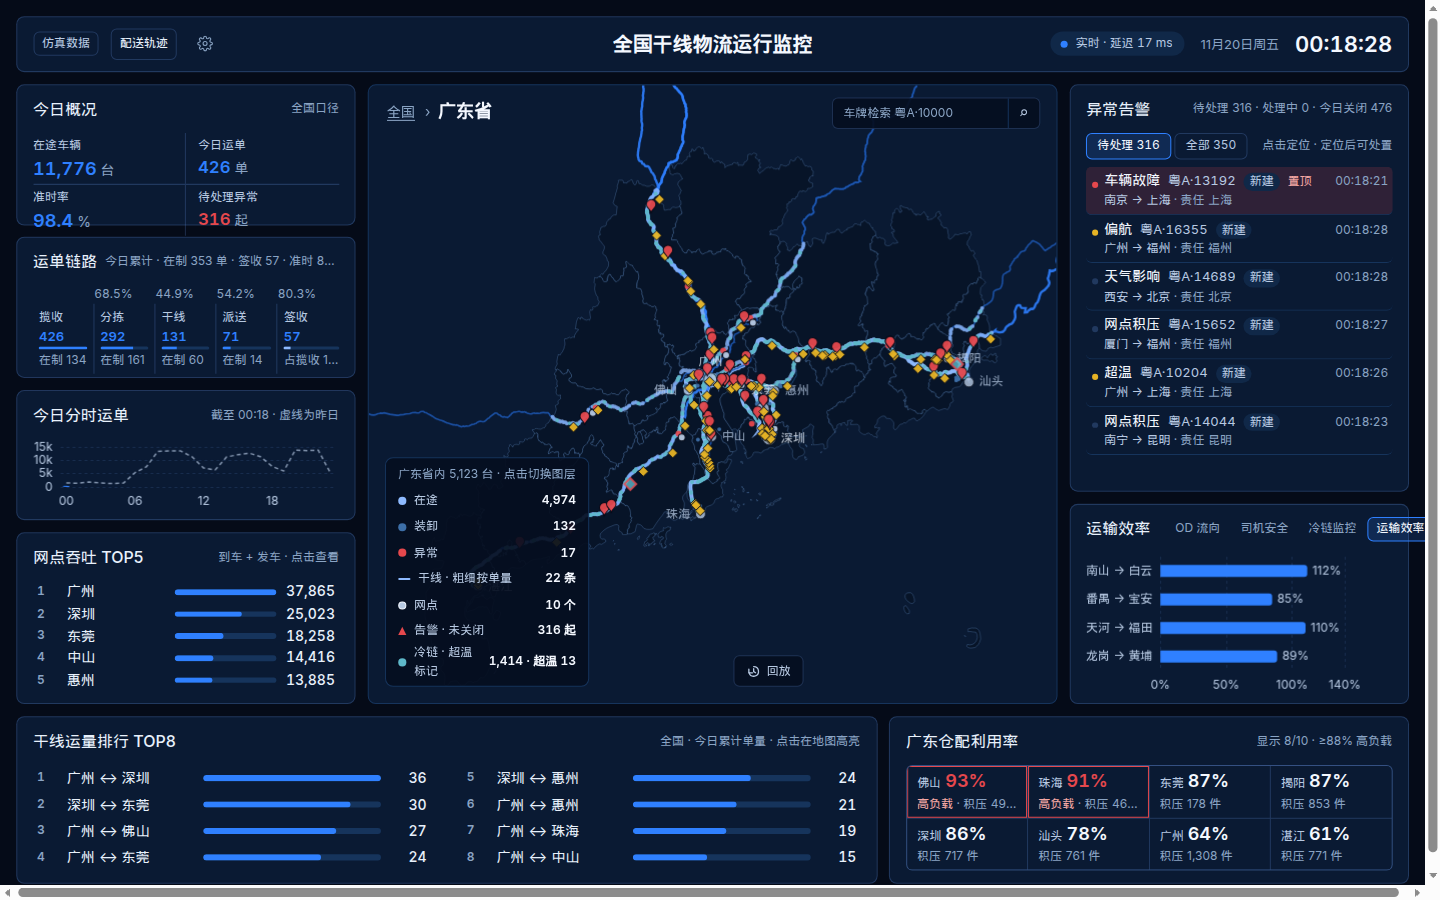
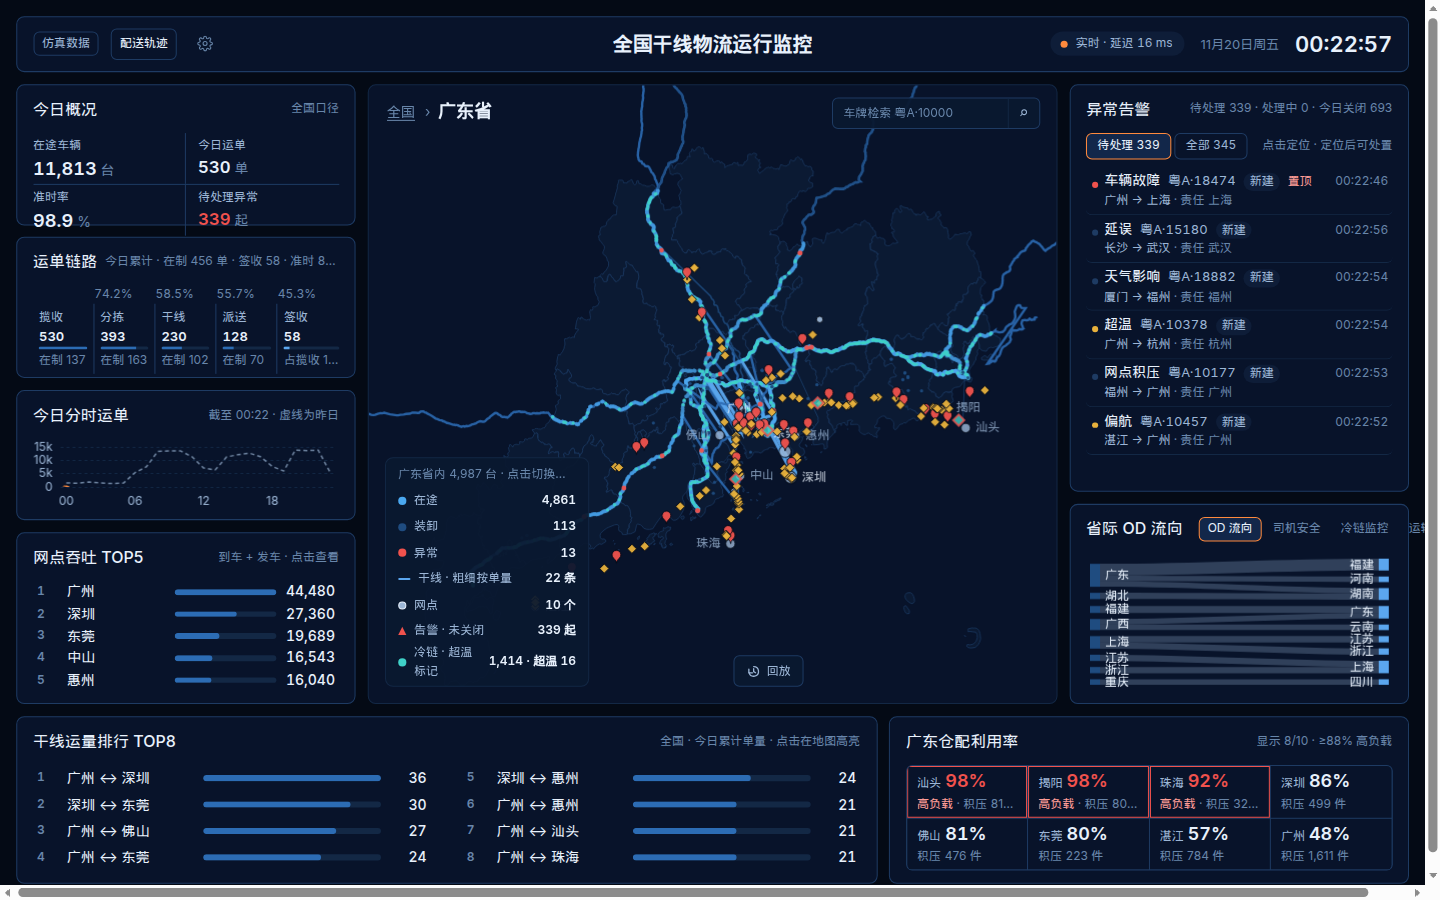
ui: 恢复去模板化之前的原主题色
背景、边框、蓝色数据色阶和橙色焦点都用 8024184 之前的色值。顶栏光晕、涟漪、粒子和 README 结构保持不动。

diff --git a/client/src/design/tokens.ts b/client/src/design/tokens.ts
@@ -1,22 +1,21 @@
 /** DOM 与 Canvas 共用的设计变量；在应用挂载前安装对应 CSS 自定义属性。 */
-// 深蓝身份色：海军蓝底、单一蓝强调色用于焦点、主系列和关键数字。
-// 红 / 琥珀 / 绿只用于真实告警与恢复，不拿来做装饰。
+// 配色与 8024184 之前一致：常态信息用同一蓝色色阶，橙色只表示当前焦点。
+// 红色只表示需要处理，琥珀只表示需要关注。
 export const COLORS = {
-  canvas: '#050B18', panel: '#0A1A33', header: '#0A1A33', elevated: '#102848',
-  track: '#16345C', border: 'rgba(120, 168, 255, 0.22)', hover: 'rgba(47, 128, 255, 0.10)',
-  selected: 'rgba(47, 128, 255, 0.16)',
-  text: '#E8F1FC', heading: '#F4F8FF', secondary: '#B7C9E2', tertiary: '#8AA4C4',
-  accent: '#2F80FF', accentText: '#7AABFF', accentValue: '#C5DBFF', onAccent: '#F7FBFF',
-  success: '#6FBF90', warning: '#E6B325', danger: '#E5484D', dangerText: '#F5A8A4',
-  // 图表色阶：同一蓝色相，按明度区分
-  barWeak: '#14345C', bar: '#1E5BB8', barStrong: '#2F80FF', barLight: '#8EBAFF',
-  vehicle: '#8EBAFF', dwell: '#3D6FA8', muted: '#1E4E8C', route: '#245A96',
-  cold: '#5EB8C9',
-  infoBg: '#102848', warningBg: '#3A3014', dangerBg: '#3F1D1D',
-  mapArea: '#071428', mapBorder: 'rgba(126, 176, 240, 0.32)', mapProvince: '#0E2C56', mapHover: '#143866',
-  overlay: 'rgba(5, 11, 24, 0.94)', hud: 'rgba(5, 14, 32, 0.92)',
-  legend: 'rgba(5, 14, 32, 0.92)', accentArea: 'rgba(47, 128, 255, 0.16)',
-  gridLine: 'rgba(120, 168, 255, 0.14)',
+  canvas: '#040a15', panel: '#08132a', header: '#08132a', elevated: '#0e1d38',
+  track: '#132845', border: '#1e3b63', hover: '#10213f', selected: '#12274a',
+  text: '#e8f1fc', heading: '#e8f1fc', secondary: '#9cb6d6', tertiary: '#6886aa',
+  accent: '#ff8a3d', accentText: '#ffb066', accentValue: '#ffd9ae', onAccent: '#131313',
+  success: '#34c77b', warning: '#e8b13c', danger: '#f0524d', dangerText: '#ff9d97',
+  // 数据色阶（同一色相，按明度区分层级）
+  barWeak: '#163459', bar: '#1f4c80', barStrong: '#2c6cb4', barLight: '#5ba6ee',
+  vehicle: '#4aa8f0', dwell: '#1f4c80', muted: '#1f4c80', route: '#1d4675',
+  cold: '#3fd1c8',
+  infoBg: '#0e1d38', warningBg: '#4a3a17', dangerBg: '#57201d',
+  mapArea: '#0b1a33', mapBorder: '#1c3a62', mapProvince: '#12305a', mapHover: '#1a3f72',
+  overlay: 'rgba(10, 24, 48, 0.94)', hud: 'rgba(6, 14, 30, 0.92)',
+  legend: 'rgba(10, 24, 48, 0.94)', accentArea: 'rgba(255, 138, 61, 0.14)',
+  gridLine: '#132845',
 } as const
 
 export const FONT = {

diff --git a/client/src/components/MapChart.vue b/client/src/components/MapChart.vue
@@ -496,7 +496,7 @@ function baseOption() {
         data: [] as [number, number, number][],
       },
       {
-        // 选中的干线：蓝色加粗压在分级线路之上
+        // 选中的干线：橙色加粗压在分级线路之上
         id: 'route-focus', type: 'lines', coordinateSystem: 'geo', zlevel: 5,
         polyline: true, silent: true, lineStyle: { color: ACCENT, width: 4, opacity: 1 },
         data: routeFocusData(),
@@ -565,7 +565,7 @@ function baseOption() {
       },
       {
         id: 'hub-hit', type: 'scatter', coordinateSystem: 'geo', zlevel: 4,
-        symbolSize: 44, itemStyle: { color: 'rgba(47, 128, 255, 0.01)' },
+        symbolSize: 44, itemStyle: { color: 'rgba(255, 138, 61, 0.001)' },
         emphasis: { disabled: true }, tooltip: { formatter: hubTooltip },
         data: hitData(),
       },
@@ -588,7 +588,7 @@ function baseOption() {
         tooltip: { formatter: (p: { name: string }) => `事件发生位置 · ${p.name}<br/>（事件发生时的位置，不是实时车辆追踪）` }, data: eventPositionData(),
       },
       {
-        // 追踪车辆所在干线：蓝色高亮，其余线路淡出
+        // 追踪车辆所在干线：橙色高亮，其余线路淡出
         id: 'vehicle-route', type: 'lines', coordinateSystem: 'geo', zlevel: 5,
         polyline: true, silent: true, lineStyle: { color: ACCENT, width: 2.5, opacity: 0.9 },
         data: vehicleRouteData(),

diff --git a/client/src/components/AmapTrackMap.vue b/client/src/components/AmapTrackMap.vue
@@ -166,9 +166,9 @@ function addAdminLabels(namespace: AMapNamespace, target: AMapMap) {
         depth: 2,
         styles: {
           fill: 'rgba(0, 0, 0, 0)',
-          'province-stroke': 'rgba(126, 176, 240, 0.40)',
-          'city-stroke': 'rgba(126, 176, 240, 0.28)',
-          'county-stroke': 'rgba(126, 176, 240, 0.16)',
+          'province-stroke': 'rgba(91, 166, 238, 0.28)',
+          'city-stroke': 'rgba(156, 182, 214, 0.5)',
+          'county-stroke': 'rgba(156, 182, 214, 0.32)',
           'stroke-width': 1,
         },
       }))
@@ -248,7 +248,7 @@ onMounted(() => {
     amap = namespace
     const first = props.points[0]
     // 底色、道路和 POI 标注。楼块和室内图继续关。行政区名和区界另由 DistrictLayer / 行政区查询补上。
-    // 已行驶段用强调蓝，未行驶段用浅蓝，在官方 darkblue 上对比更清楚。不用 3D、路况或卫星图层。
+    // 已行驶段是橙色，未行驶段是浅蓝，在官方 darkblue 上对比更清楚。不用 3D、路况或卫星图层。
     map = new namespace.Map(host.value, {
       viewMode: '2D',
       zoom: 11,

diff --git a/client/src/components/TrendChart.vue b/client/src/components/TrendChart.vue
@@ -27,7 +27,7 @@ function render() {
     tooltip: {
       ...TOOLTIP,
       trigger: 'axis',
-      axisPointer: { type: 'shadow', shadowStyle: { color: 'rgba(47, 128, 255, 0.10)' } },
+      axisPointer: { type: 'shadow', shadowStyle: { color: 'rgba(91, 166, 238, 0.08)' } },
       formatter: (params: unknown) => formatTrendTooltip(params, store.trend, currentHour, store.trendYesterday),
     },
     xAxis: {
@@ -78,7 +78,7 @@ watch([chart, () => store.chartVersion], render)
 
 <template>
   <Panel title="今日分时运单" :extra="`${asOf ? `截至 ${asOf}` : '北京时间'}${store.trendYesterday.length === 24 ? ' · 虚线为昨日' : ''}`">
-    <div ref="el" class="chart" role="img" aria-label="今日各小时运单量柱状图，蓝色虚线柱为当前小时累计中，浅色虚线为昨日各小时运单" />
+    <div ref="el" class="chart" role="img" aria-label="今日各小时运单量柱状图，橙色虚线柱为当前小时累计中，浅色虚线为昨日各小时运单" />
   </Panel>
 </template>
 

diff --git a/client/src/components/TrackSpeedChart.vue b/client/src/components/TrackSpeedChart.vue
@@ -52,11 +52,11 @@ function render() {
       smooth: false,
       showSymbol: false,
       lineStyle: { color: COLORS.barLight, width: 1.5 },
-      areaStyle: { color: areaFade(142, 186, 255) },
+      areaStyle: { color: areaFade(91, 166, 238) },
       data: speedSamples(points).map((sample) => [sample.t, Math.round(sample.speedKmh * 10) / 10]),
       markArea: {
         silent: true,
-        itemStyle: { color: 'rgba(47, 128, 255, 0.10)' },
+        itemStyle: { color: 'rgba(232, 177, 60, 0.38)' },
         label: { show: false },
         data: props.stays.map((stay) => [{ xAxis: stay.startT }, { xAxis: stay.endT }]),
       },
@@ -68,7 +68,7 @@ watch([chart, () => props.points, () => props.stays], render)
 </script>
 
 <template>
-  <div ref="el" class="chart" role="img" aria-label="当前运单速度随时间变化，浅色色带为停留" />
+  <div ref="el" class="chart" role="img" aria-label="当前运单速度随时间变化，琥珀色带为停留" />
 </template>
 
 <style scoped>

diff --git a/client/src/components/EventStream.vue b/client/src/components/EventStream.vue
@@ -198,8 +198,8 @@ onBeforeUnmount(() => { observer?.disconnect(); resetFresh() })
 .item.active { background: var(--color-selected); }
 .item.closed { opacity: 0.6; }
 /* 新到严重告警：红底闪 3 次后保持淡红底，8 秒后恢复；减少动态效果时只保留静态淡红底 */
-.item.fresh { background: rgba(229, 72, 77, 0.12); animation: severe-flash 1.2s ease-in-out 3; }
-@keyframes severe-flash { 0%, 100% { background: rgba(229, 72, 77, 0.06); } 50% { background: rgba(229, 72, 77, 0.22); } }
+.item.fresh { background: rgba(240, 82, 77, 0.12); animation: severe-flash 1.2s ease-in-out 3; }
+@keyframes severe-flash { 0%, 100% { background: rgba(240, 82, 77, 0.06); } 50% { background: rgba(240, 82, 77, 0.3); } }
 /* 级别用标题前的小圆点表达，避免整列彩条抢视线 */
 .sev { position: absolute; left: 6px; top: 15px; width: 6px; height: 6px; border-radius: 50%; }
 .lv0 { background: var(--color-border); }

diff --git a/client/src/components/VehicleDetail.vue b/client/src/components/VehicleDetail.vue
@@ -47,7 +47,7 @@ function renderTemps() {
       axisLabel: { ...TEXT, fontFamily: FONT.number, formatter: '{value}℃' } },
     series: [{
       type: 'line', data, showSymbol: false, smooth: false,
-      lineStyle: { color: COLORS.cold, width: 1.5 }, areaStyle: { color: areaFade(94, 184, 201) },
+      lineStyle: { color: COLORS.cold, width: 1.5 }, areaStyle: { color: areaFade(63, 209, 200) },
       markArea: { silent: true, itemStyle: { color: 'rgba(52, 199, 123, 0.12)' }, data: [[{ yAxis: t.lo }, { yAxis: t.hi }]] },
       markLine: { silent: true, symbol: 'none', lineStyle: { color: COLORS.secondary, type: 'dashed', width: 1 }, label: { show: false }, data: [{ yAxis: t.target }] },
     }],

diff --git a/client/src/components/DeliveryBoard.vue b/client/src/components/DeliveryBoard.vue
@@ -180,7 +180,7 @@ onBeforeUnmount(() => {
       </Panel>
     </div>
 
-    <Panel class="eff-panel" standalone title="运输效率" extra="承诺用时 / 实际用时 · 蓝色为当前运单">
+    <Panel class="eff-panel" standalone title="运输效率" extra="承诺用时 / 实际用时 · 橙色为当前运单">
       <WaybillEfficiencyChart />
     </Panel>
   </div>

diff --git a/client/src/components/KpiOverview.vue b/client/src/components/KpiOverview.vue
@@ -52,7 +52,7 @@ dd { display: flex; align-items: baseline; gap: var(--space-1); min-width: 0; ma
   font-size: clamp(20px, 15cqw, var(--font-kpi));
   font-weight: 600;
   line-height: 1.2;
-  color: var(--color-accent);
+  color: var(--color-heading);
   font-variant-numeric: tabular-nums;
   white-space: nowrap;
   overflow: hidden;

diff --git a/client/src/components/ShipmentFunnel.vue b/client/src/components/ShipmentFunnel.vue
@@ -77,7 +77,7 @@ const extra = computed(() => s.value
   font-size: clamp(14px, 24cqw, 20px);
   font-weight: 600;
   line-height: 1.2;
-  color: var(--color-accent);
+  color: var(--color-heading);
   font-variant-numeric: tabular-nums;
   white-space: nowrap;
   overflow: hidden;
